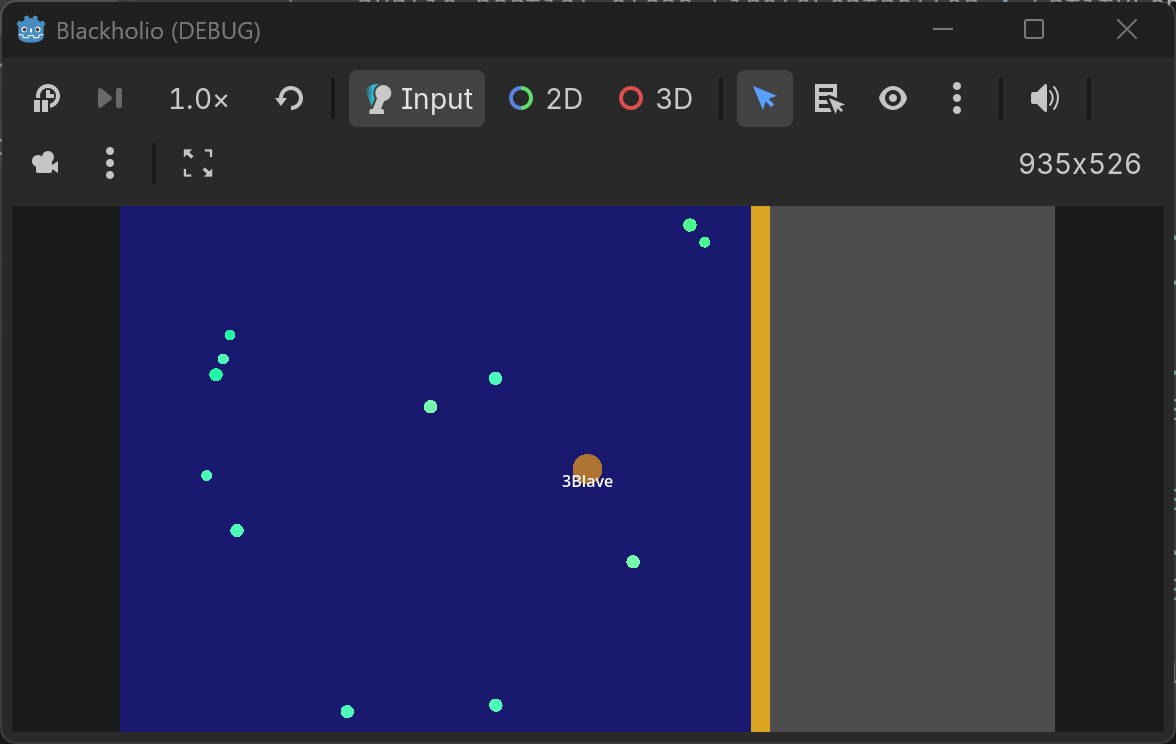
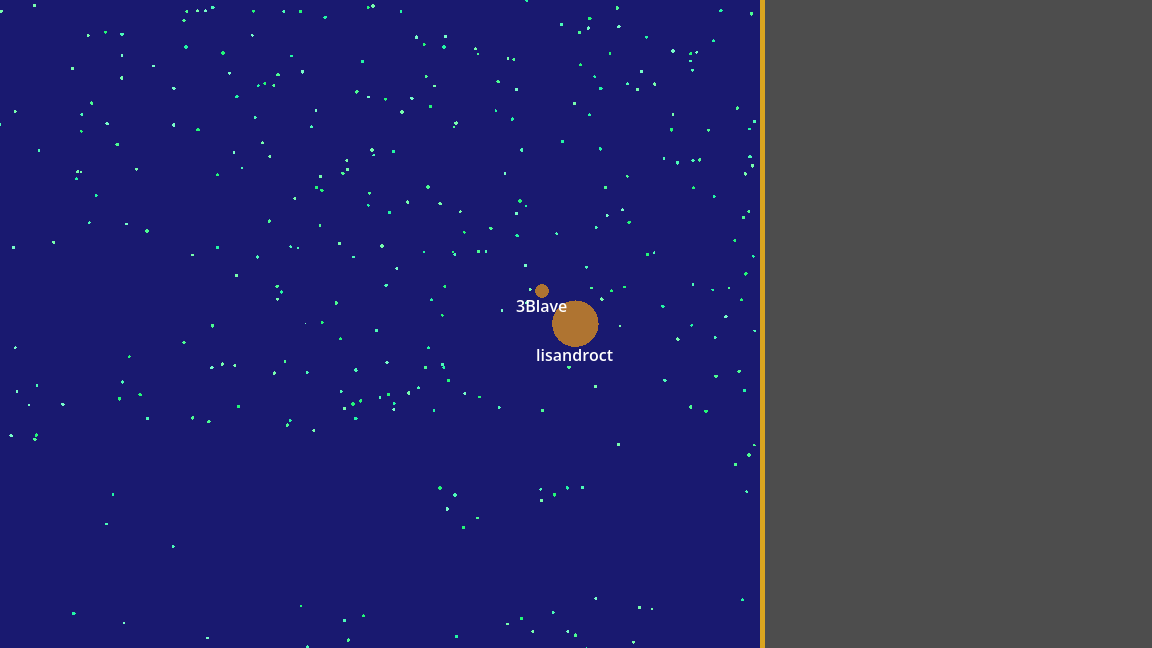
Use ZIndex in code

diff --git a/demo/Blackholio/client-godot/GameManager.cs b/demo/Blackholio/client-godot/GameManager.cs
@@ -112,7 +112,7 @@ public partial class GameManager : Node
 		// Get the world size from the config table and set up the arena
 		var worldSize = Conn.Db.Config.Id.Find(0).WorldSize;
 		SetupArena(worldSize);
-        
+		
 		ctx.Reducers.EnterGame(DefaultPlayerName);
 	}
 	
@@ -130,7 +130,8 @@ public partial class GameManager : Node
 			Name = "Background",
 			Color = BackgroundColor,
 			Position = Vector2.Zero,
-			Polygon = polygon
+			Polygon = polygon,
+			ZIndex = -1000
 		};
 		background.AddChild(new Polygon2D
 		{
@@ -141,7 +142,7 @@ public partial class GameManager : Node
 			InvertBorder = BorderThickness,
 			Polygon = polygon
 		});
-		AddChild(background, @internal: InternalMode.Front);
+		AddChild(background);
 
 		AddChild(new CameraController(worldSize));
 	}